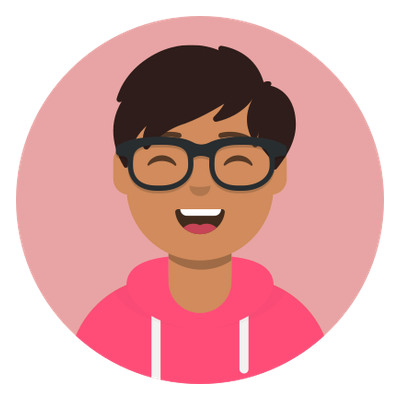
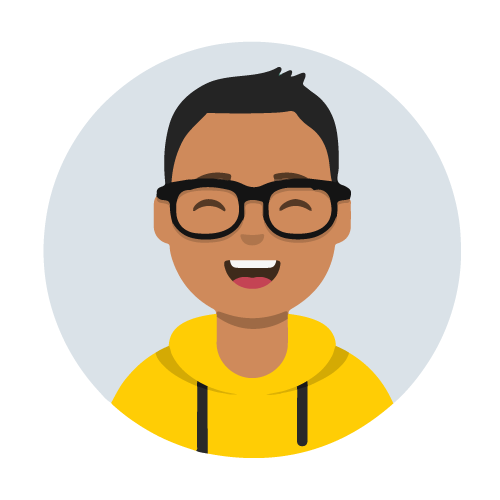
Design changes
Changed brand color from pink to yellow; Changed hero avatar; Added link to twitter and blog.

diff --git a/css/build.css b/css/build.css
@@ -1,1 +1,1 @@
-/*! tailwindcss v2.1.4 | MIT License | https://tailwindcss.com*//*! modern-normalize v1.1.0 | MIT License | https://github.com/sindresorhus/modern-normalize */html{-webkit-text-size-adjust:100%;line-height:1.15;-moz-tab-size:4;-o-tab-size:4;tab-size:4}body{font-family:system-ui,-apple-system,Segoe UI,Roboto,Helvetica,Arial,sans-serif,Apple Color Emoji,Segoe UI Emoji;margin:0}hr{color:inherit;height:0}abbr[title]{-webkit-text-decoration:underline dotted;text-decoration:underline dotted}b,strong{font-weight:bolder}code,kbd,pre,samp{font-family:ui-monospace,SFMono-Regular,Consolas,Liberation Mono,Menlo,monospace;font-size:1em}small{font-size:80%}sub,sup{font-size:75%;line-height:0;position:relative;vertical-align:baseline}sub{bottom:-.25em}sup{top:-.5em}table{border-color:inherit;text-indent:0}button,input,optgroup,select,textarea{font-family:inherit;font-size:100%;line-height:1.15;margin:0}button,select{text-transform:none}[type=button],[type=reset],[type=submit],button{-webkit-appearance:button}::-moz-focus-inner{border-style:none;padding:0}:-moz-focusring{outline:1px dotted ButtonText}:-moz-ui-invalid{box-shadow:none}legend{padding:0}progress{vertical-align:baseline}::-webkit-inner-spin-button,::-webkit-outer-spin-button{height:auto}[type=search]{-webkit-appearance:textfield;outline-offset:-2px}::-webkit-search-decoration{-webkit-appearance:none}::-webkit-file-upload-button{-webkit-appearance:button;font:inherit}summary{display:list-item}blockquote,dd,dl,figure,h1,h2,h3,h4,h5,h6,hr,p,pre{margin:0}button{background-color:transparent;background-image:none}button:focus{outline:1px dotted;outline:5px auto -webkit-focus-ring-color}fieldset,ol,ul{margin:0;padding:0}ol,ul{list-style:none}html{font-family:Poppins,sans-serif;line-height:1.5}body{font-family:inherit;line-height:inherit}*,:after,:before{border:0 solid #e4e4e7;box-sizing:border-box}hr{border-top-width:1px}img{border-style:solid}textarea{resize:vertical}input::-moz-placeholder,textarea::-moz-placeholder{color:#a1a1aa;opacity:1}input:-ms-input-placeholder,textarea:-ms-input-placeholder{color:#a1a1aa;opacity:1}input::placeholder,textarea::placeholder{color:#a1a1aa;opacity:1}[role=button],button{cursor:pointer}table{border-collapse:collapse}h1,h2,h3,h4,h5,h6{font-size:inherit;font-weight:inherit}a{color:inherit;text-decoration:inherit}button,input,optgroup,select,textarea{color:inherit;line-height:inherit;padding:0}code,kbd,pre,samp{font-family:ui-monospace,SFMono-Regular,Menlo,Monaco,Consolas,Liberation Mono,Courier New,monospace}audio,canvas,embed,iframe,img,object,svg,video{display:block;vertical-align:middle}img,video{height:auto;max-width:100%}*{--tw-shadow:0 0 #0000;--tw-ring-inset:var(--tw-empty,/*!*/ /*!*/);--tw-ring-offset-width:0px;--tw-ring-offset-color:#fff;--tw-ring-color:rgba(59,130,246,0.5);--tw-ring-offset-shadow:0 0 #0000;--tw-ring-shadow:0 0 #0000}.container{width:100%}@media (min-width:640px){.container{max-width:640px}}@media (min-width:768px){.container{max-width:768px}}@media (min-width:1024px){.container{max-width:1024px}}@media (min-width:1280px){.container{max-width:1280px}}@media (min-width:1536px){.container{max-width:1536px}}nav .mask{height:1.5rem;line-height:1;margin:4px 0;overflow:hidden;padding:0}nav .link-wrapper{display:flex;flex-direction:column;transition:transform .2s ease}nav .link-wrapper:hover{transform:translateY(-1.5rem)}nav .title{display:block;transition:transform .2s ease}nav .title-1{transform-origin:right center}nav .title-2{--tw-text-opacity:1;color:rgba(255,51,153,var(--tw-text-opacity));transform-origin:left center}nav .link-wrapper:hover .title-1,nav .title-2{transform:rotate(20deg)}nav .link-wrapper:hover .title-2{transform:rotate(0deg)}@media (max-width:767px){nav .mask{height:1.125rem}nav .link-wrapper:hover{transform:translateY(-1.125rem)}}#hero{height:100%}@media (min-width:768px){#hero{height:calc(100vh - 112px)}}.relative{position:relative}.absolute{position:absolute}.top-2{top:.5rem}.bottom-0{bottom:0}.-right-4{right:-1rem}.bottom-6{bottom:1.5rem}.left-0{left:0}.m-0{margin:0}.mx-auto{margin-left:auto;margin-right:auto}.my-56{margin-bottom:14rem;margin-top:14rem}.mt-10{margin-top:2.5rem}.mt-8{margin-top:2rem}.mb-12{margin-bottom:3rem}.mt-40{margin-top:10rem}.-mb-2{margin-bottom:-.5rem}.mt-2{margin-top:.5rem}.-mt-20{margin-top:-5rem}.mt-20{margin-top:5rem}.flex{display:flex}.h-12{height:3rem}.h-48{height:12rem}.h-72{height:18rem}.h-full{height:100%}.h-screen{height:100vh}.w-72{width:18rem}.w-full{width:100%}.w-screen{width:100vw}.max-w-6xl{max-width:72rem}.max-w-2xl{max-width:42rem}.max-w-sm{max-width:24rem}.transform{--tw-translate-x:0;--tw-translate-y:0;--tw-rotate:0;--tw-skew-x:0;--tw-skew-y:0;--tw-scale-x:1;--tw-scale-y:1;transform:translateX(var(--tw-translate-x)) translateY(var(--tw-translate-y)) rotate(var(--tw-rotate)) skewX(var(--tw-skew-x)) skewY(var(--tw-skew-y)) scaleX(var(--tw-scale-x)) scaleY(var(--tw-scale-y))}.cursor-not-allowed{cursor:not-allowed}.flex-row{flex-direction:row}.flex-col-reverse{flex-direction:column-reverse}.flex-col{flex-direction:column}.flex-wrap{flex-wrap:wrap}.items-center{align-items:center}.justify-between{justify-content:space-between}.justify-center{justify-content:center}.space-x-4>:not([hidden])~:not([hidden]){--tw-space-x-reverse:0;margin-left:calc(1rem*(1 - var(--tw-space-x-reverse)));margin-right:calc(1rem*var(--tw-space-x-reverse))}.space-y-8>:not([hidden])~:not([hidden]){--tw-space-y-reverse:0;margin-bottom:calc(2rem*var(--tw-space-y-reverse));margin-top:calc(2rem*(1 - var(--tw-space-y-reverse)))}.space-x-2>:not([hidden])~:not([hidden]){--tw-space-x-reverse:0;margin-left:calc(.5rem*(1 - var(--tw-space-x-reverse)));margin-right:calc(.5rem*var(--tw-space-x-reverse))}.overflow-scroll{overflow:scroll}.overflow-x-hidden{overflow-x:hidden}.overflow-y-scroll{overflow-y:scroll}.bg-gray-900{--tw-bg-opacity:1;background-color:rgba(24,24,27,var(--tw-bg-opacity))}.object-cover{-o-object-fit:cover;object-fit:cover}.object-left{-o-object-position:left;object-position:left}.p-8{padding:2rem}.p-4{padding:1rem}.text-center{text-align:center}.text-lg{font-size:1.125rem;line-height:1.75rem}.text-3xl{font-size:1.875rem;line-height:2.25rem}.text-base{font-size:1rem;line-height:1.5rem}.text-2xl{font-size:1.5rem;line-height:2rem}.text-xl{font-size:1.25rem;line-height:1.75rem}.font-bold{font-weight:700}.uppercase{text-transform:uppercase}.leading-relaxed{line-height:1.625}.tracking-sowide{letter-spacing:.3rem}.text-white{--tw-text-opacity:1;color:rgba(255,255,255,var(--tw-text-opacity))}.hover\:text-highlight:hover,.text-highlight{--tw-text-opacity:1;color:rgba(255,51,153,var(--tw-text-opacity))}@media (min-width:640px){.sm\:h-96{height:24rem}.sm\:w-96{width:24rem}.sm\:space-y-12>:not([hidden])~:not([hidden]){--tw-space-y-reverse:0;margin-bottom:calc(3rem*var(--tw-space-y-reverse));margin-top:calc(3rem*(1 - var(--tw-space-y-reverse)))}.sm\:space-x-4>:not([hidden])~:not([hidden]){--tw-space-x-reverse:0;margin-left:calc(1rem*(1 - var(--tw-space-x-reverse)));margin-right:calc(1rem*var(--tw-space-x-reverse))}.sm\:p-8{padding:2rem}.sm\:p-10{padding:2.5rem}.sm\:text-5xl{font-size:3rem;line-height:1}.sm\:text-4xl{font-size:2.25rem;line-height:2.5rem}}@media (min-width:768px){.md\:absolute{position:absolute}.md\:mt-0{margin-top:0}.md\:mb-0{margin-bottom:0}.md\:h-72{height:18rem}.md\:-translate-x-1\/2{--tw-translate-x:-50%}.md\:translate-x-full{--tw-translate-x:100%}.md\:flex-row{flex-direction:row}.md\:justify-between{justify-content:space-between}.md\:text-2xl{font-size:1.5rem;line-height:2rem}.md\:text-5xl{font-size:3rem;line-height:1}}@media (min-width:1024px){.lg\:h-full{height:100%}.lg\:space-y-24>:not([hidden])~:not([hidden]){--tw-space-y-reverse:0;margin-bottom:calc(6rem*var(--tw-space-y-reverse));margin-top:calc(6rem*(1 - var(--tw-space-y-reverse)))}.lg\:text-7xl{font-size:4.5rem;line-height:1}.lg\:text-2xl{font-size:1.5rem;line-height:2rem}.lg\:text-5xl{font-size:3rem;line-height:1}}
+/*! tailwindcss v2.1.4 | MIT License | https://tailwindcss.com*//*! modern-normalize v1.1.0 | MIT License | https://github.com/sindresorhus/modern-normalize */html{-webkit-text-size-adjust:100%;line-height:1.15;-moz-tab-size:4;-o-tab-size:4;tab-size:4}body{font-family:system-ui,-apple-system,Segoe UI,Roboto,Helvetica,Arial,sans-serif,Apple Color Emoji,Segoe UI Emoji;margin:0}hr{color:inherit;height:0}abbr[title]{-webkit-text-decoration:underline dotted;text-decoration:underline dotted}b,strong{font-weight:bolder}code,kbd,pre,samp{font-family:ui-monospace,SFMono-Regular,Consolas,Liberation Mono,Menlo,monospace;font-size:1em}small{font-size:80%}sub,sup{font-size:75%;line-height:0;position:relative;vertical-align:baseline}sub{bottom:-.25em}sup{top:-.5em}table{border-color:inherit;text-indent:0}button,input,optgroup,select,textarea{font-family:inherit;font-size:100%;line-height:1.15;margin:0}button,select{text-transform:none}[type=button],[type=reset],[type=submit],button{-webkit-appearance:button}::-moz-focus-inner{border-style:none;padding:0}:-moz-focusring{outline:1px dotted ButtonText}:-moz-ui-invalid{box-shadow:none}legend{padding:0}progress{vertical-align:baseline}::-webkit-inner-spin-button,::-webkit-outer-spin-button{height:auto}[type=search]{-webkit-appearance:textfield;outline-offset:-2px}::-webkit-search-decoration{-webkit-appearance:none}::-webkit-file-upload-button{-webkit-appearance:button;font:inherit}summary{display:list-item}blockquote,dd,dl,figure,h1,h2,h3,h4,h5,h6,hr,p,pre{margin:0}button{background-color:transparent;background-image:none}button:focus{outline:1px dotted;outline:5px auto -webkit-focus-ring-color}fieldset,ol,ul{margin:0;padding:0}ol,ul{list-style:none}html{font-family:Poppins,sans-serif;line-height:1.5}body{font-family:inherit;line-height:inherit}*,:after,:before{border:0 solid #e4e4e7;box-sizing:border-box}hr{border-top-width:1px}img{border-style:solid}textarea{resize:vertical}input::-moz-placeholder,textarea::-moz-placeholder{color:#a1a1aa;opacity:1}input:-ms-input-placeholder,textarea:-ms-input-placeholder{color:#a1a1aa;opacity:1}input::placeholder,textarea::placeholder{color:#a1a1aa;opacity:1}[role=button],button{cursor:pointer}table{border-collapse:collapse}h1,h2,h3,h4,h5,h6{font-size:inherit;font-weight:inherit}a{color:inherit;text-decoration:inherit}button,input,optgroup,select,textarea{color:inherit;line-height:inherit;padding:0}code,kbd,pre,samp{font-family:ui-monospace,SFMono-Regular,Menlo,Monaco,Consolas,Liberation Mono,Courier New,monospace}audio,canvas,embed,iframe,img,object,svg,video{display:block;vertical-align:middle}img,video{height:auto;max-width:100%}*{--tw-shadow:0 0 #0000;--tw-ring-inset:var(--tw-empty,/*!*/ /*!*/);--tw-ring-offset-width:0px;--tw-ring-offset-color:#fff;--tw-ring-color:rgba(59,130,246,0.5);--tw-ring-offset-shadow:0 0 #0000;--tw-ring-shadow:0 0 #0000}.container{width:100%}@media (min-width:640px){.container{max-width:640px}}@media (min-width:768px){.container{max-width:768px}}@media (min-width:1024px){.container{max-width:1024px}}@media (min-width:1280px){.container{max-width:1280px}}@media (min-width:1536px){.container{max-width:1536px}}nav .mask{height:1.5rem;line-height:1;margin:4px 0;overflow:hidden;padding:0}nav .link-wrapper{display:flex;flex-direction:column;transition:transform .2s ease}nav .link-wrapper:hover{transform:translateY(-1.5rem)}nav .title{display:block;transition:transform .2s ease}nav .title-1{transform-origin:right center}nav .title-2{--tw-text-opacity:1;color:rgba(255,205,5,var(--tw-text-opacity));transform-origin:left center}nav .link-wrapper:hover .title-1,nav .title-2{transform:rotate(20deg)}nav .link-wrapper:hover .title-2{transform:rotate(0deg)}@media (max-width:767px){nav .mask{height:1.125rem}nav .link-wrapper:hover{transform:translateY(-1.125rem)}}#hero{height:100%}@media (min-width:768px){#hero{height:calc(100vh - 112px)}}.relative{position:relative}.absolute{position:absolute}.top-2{top:.5rem}.bottom-0{bottom:0}.-right-4{right:-1rem}.bottom-6{bottom:1.5rem}.left-0{left:0}.top-20{top:5rem}.top-24{top:6rem}.top-0{top:0}.right-4{right:1rem}.mx-auto{margin-left:auto;margin-right:auto}.my-56{margin-bottom:14rem;margin-top:14rem}.mt-10{margin-top:2.5rem}.mt-8{margin-top:2rem}.mb-12{margin-bottom:3rem}.mt-40{margin-top:10rem}.-mb-2{margin-bottom:-.5rem}.mt-2{margin-top:.5rem}.-mt-20{margin-top:-5rem}.mt-20{margin-top:5rem}.flex{display:flex}.hidden{display:none}.h-12{height:3rem}.h-48{height:12rem}.h-72{height:18rem}.h-full{height:100%}.w-72{width:18rem}.w-full{width:100%}.w-screen{width:100vw}.max-w-6xl{max-width:72rem}.max-w-2xl{max-width:42rem}.transform{--tw-translate-x:0;--tw-translate-y:0;--tw-rotate:0;--tw-skew-x:0;--tw-skew-y:0;--tw-scale-x:1;--tw-scale-y:1;transform:translateX(var(--tw-translate-x)) translateY(var(--tw-translate-y)) rotate(var(--tw-rotate)) skewX(var(--tw-skew-x)) skewY(var(--tw-skew-y)) scaleX(var(--tw-scale-x)) scaleY(var(--tw-scale-y))}.cursor-not-allowed{cursor:not-allowed}.flex-row{flex-direction:row}.flex-col-reverse{flex-direction:column-reverse}.flex-wrap{flex-wrap:wrap}.items-center{align-items:center}.justify-between{justify-content:space-between}.justify-center{justify-content:center}.space-x-4>:not([hidden])~:not([hidden]){--tw-space-x-reverse:0;margin-left:calc(1rem*(1 - var(--tw-space-x-reverse)));margin-right:calc(1rem*var(--tw-space-x-reverse))}.space-y-8>:not([hidden])~:not([hidden]){--tw-space-y-reverse:0;margin-bottom:calc(2rem*var(--tw-space-y-reverse));margin-top:calc(2rem*(1 - var(--tw-space-y-reverse)))}.space-x-2>:not([hidden])~:not([hidden]){--tw-space-x-reverse:0;margin-left:calc(.5rem*(1 - var(--tw-space-x-reverse)));margin-right:calc(.5rem*var(--tw-space-x-reverse))}.overflow-scroll{overflow:scroll}.overflow-x-hidden{overflow-x:hidden}.overflow-y-scroll{overflow-y:scroll}.rounded{border-radius:.25rem}.rounded-lg{border-radius:.5rem}.rounded-md{border-radius:.375rem}.border{border-width:1px}.border-2{border-width:2px}.border-highlight{--tw-border-opacity:1;border-color:rgba(255,205,5,var(--tw-border-opacity))}.bg-gray-900{--tw-bg-opacity:1;background-color:rgba(24,24,27,var(--tw-bg-opacity))}.bg-highlight{--tw-bg-opacity:1;background-color:rgba(255,205,5,var(--tw-bg-opacity))}.object-cover{-o-object-fit:cover;object-fit:cover}.object-left{-o-object-position:left;object-position:left}.p-8{padding:2rem}.p-4{padding:1rem}.px-4{padding-left:1rem;padding-right:1rem}.py-2{padding-bottom:.5rem;padding-top:.5rem}.pt-4{padding-top:1rem}.pb-1{padding-bottom:.25rem}.text-center{text-align:center}.text-lg{font-size:1.125rem;line-height:1.75rem}.text-3xl{font-size:1.875rem;line-height:2.25rem}.text-base{font-size:1rem;line-height:1.5rem}.text-2xl{font-size:1.5rem;line-height:2rem}.text-xl{font-size:1.25rem;line-height:1.75rem}.font-bold{font-weight:700}.uppercase{text-transform:uppercase}.leading-relaxed{line-height:1.625}.tracking-sowide{letter-spacing:.3rem}.text-white{--tw-text-opacity:1;color:rgba(255,255,255,var(--tw-text-opacity))}.text-highlight{--tw-text-opacity:1;color:rgba(255,205,5,var(--tw-text-opacity))}.text-gray-900{--tw-text-opacity:1;color:rgba(24,24,27,var(--tw-text-opacity))}.transition{transition-duration:.15s;transition-property:background-color,border-color,color,fill,stroke,opacity,box-shadow,transform,filter,-webkit-backdrop-filter;transition-property:background-color,border-color,color,fill,stroke,opacity,box-shadow,transform,filter,backdrop-filter;transition-property:background-color,border-color,color,fill,stroke,opacity,box-shadow,transform,filter,backdrop-filter,-webkit-backdrop-filter;transition-timing-function:cubic-bezier(.4,0,.2,1)}.duration-200{transition-duration:.2s}.duration-300{transition-duration:.3s}.hover\:bg-gray-900:hover{--tw-bg-opacity:1;background-color:rgba(24,24,27,var(--tw-bg-opacity))}.hover\:text-highlight:hover{--tw-text-opacity:1;color:rgba(255,205,5,var(--tw-text-opacity))}.hover\:bg-blend-lighten:hover{background-blend-mode:lighten}@media (min-width:640px){.sm\:static{position:static}.sm\:block{display:block}.sm\:h-96{height:24rem}.sm\:w-96{width:24rem}.sm\:space-y-12>:not([hidden])~:not([hidden]){--tw-space-y-reverse:0;margin-bottom:calc(3rem*var(--tw-space-y-reverse));margin-top:calc(3rem*(1 - var(--tw-space-y-reverse)))}.sm\:space-x-4>:not([hidden])~:not([hidden]){--tw-space-x-reverse:0;margin-left:calc(1rem*(1 - var(--tw-space-x-reverse)));margin-right:calc(1rem*var(--tw-space-x-reverse))}.sm\:p-8{padding:2rem}.sm\:p-10{padding:2.5rem}.sm\:py-2{padding-bottom:.5rem;padding-top:.5rem}.sm\:text-5xl{font-size:3rem;line-height:1}.sm\:text-4xl{font-size:2.25rem;line-height:2.5rem}}@media (min-width:768px){.md\:absolute{position:absolute}.md\:mt-0{margin-top:0}.md\:mb-0{margin-bottom:0}.md\:h-72{height:18rem}.md\:-translate-x-1\/2{--tw-translate-x:-50%}.md\:translate-x-full{--tw-translate-x:100%}.md\:flex-row{flex-direction:row}.md\:justify-between{justify-content:space-between}.md\:text-2xl{font-size:1.5rem;line-height:2rem}.md\:text-5xl{font-size:3rem;line-height:1}}@media (min-width:1024px){.lg\:h-full{height:100%}.lg\:space-y-24>:not([hidden])~:not([hidden]){--tw-space-y-reverse:0;margin-bottom:calc(6rem*var(--tw-space-y-reverse));margin-top:calc(6rem*(1 - var(--tw-space-y-reverse)))}.lg\:text-7xl{font-size:4.5rem;line-height:1}.lg\:text-2xl{font-size:1.5rem;line-height:2rem}.lg\:text-5xl{font-size:3rem;line-height:1}}

diff --git a/pages/about.html b/pages/about.html
@@ -10,7 +10,7 @@
         <link rel="shortcut icon" href="../favicon.png" type="image/png" />
         <title>Shounak Das | About</title>
     </head>
-    <body class="bg-gray-900 text-white font-bold p-4 sm:p-8">
+    <body class="bg-gray-900 text-white font-bold p-8">
         <div id="container">
             <header class="flex flex-row justify-between items-center">
                 <div id="logo">
@@ -39,76 +39,35 @@
                                 </div>
                             </a>
                         </li>
+                        <li class="absolute top-0 right-4 sm:static">
+                            <a href="https://codecrunch.hashnode.dev/" target="_blank" rel="noopener noreferrer" class="px-4 pt-4 pb-1 sm:py-2 border-2 border-highlight bg-highlight text-gray-900 rounded-lg hover:bg-gray-900 hover:text-highlight transition duration-300">Blog</a>
+                        </li>
                     </ul>
                 </nav>
             </header>
             <main class="max-w-2xl mx-auto mt-40">
                 <div id="img-young" class="w-72 sm:w-96 h-72 sm:h-96 relative">
-                    <h1 class="text-3xl sm:text-5xl lg:text-7xl md:absolute top-2 transform md:-translate-x-1/2">
-                        About
-                    </h1>
-                    <img
-                        src="../img/young-me.jpg"
-                        alt="Photo of a young Shounak"
-                        class="object-cover object-left h-full w-full"
-                        loading="lazy"
-                    />
-                    <h2
-                        class="
-                            text-2xl
-                            sm:text-4xl
-                            lg:text-5xl
-                            -mb-2
-                            mt-2
-                            md:mt-0
-                            md:absolute
-                            bottom-0
-                            -right-4
-                            transform
-                            md:translate-x-full
-                        "
-                    >
-                        This is <span class="text-highlight">me</span>.
-                    </h2>
+                    <h1 class="text-3xl sm:text-5xl lg:text-7xl md:absolute top-2 transform md:-translate-x-1/2">About</h1>
+                    <img src="../img/young-me.jpg" alt="Photo of a young Shounak" class="object-cover object-left h-full w-full" loading="lazy" />
+                    <h2 class="text-2xl sm:text-4xl lg:text-5xl -mb-2 mt-2 md:mt-0 md:absolute bottom-0 -right-4 transform md:translate-x-full">This is <span class="text-highlight">me</span>.</h2>
                 </div>
-                <div
-                    id="main-text"
-                    class="text-2xl sm:text-4xl lg:text-5xl space-y-8 sm:space-y-12 lg:space-y-24 my-56"
-                >
-                    <p class="leading-relaxed">
-                        Ok, this <span class="text-highlight uppercase">was</span> me many years before.
-                    </p>
+                <div id="main-text" class="text-2xl sm:text-4xl lg:text-5xl space-y-8 sm:space-y-12 lg:space-y-24 my-56">
+                    <p class="leading-relaxed">Ok, this <span class="text-highlight uppercase">was</span> me many years before.</p>
                     <p class="leading-relaxed">Now I look something more like this:</p>
                     <div id="img-old" class="p-4 sm:p-10">
-                        <img
-                            src="../img/old-me.jpg"
-                            alt="A recent photo of Shounak"
-                            class="object-cover"
-                            loading="lazy"
-                        />
+                        <img src="../img/old-me.jpg" alt="A recent photo of Shounak" class="object-cover" loading="lazy" />
                     </div>
-                    <p class="leading-relaxed">
-                        I grew up in a small town near Kolkata, <span class="text-highlight">India</span>.
-                    </p>
+                    <p class="leading-relaxed">I grew up in a small town near Kolkata, <span class="text-highlight">India</span>.</p>
                     <p class="leading-relaxed">
                         It was back in 6th grade when I was acquainted with something called
-                        <span class="text-highlight">HTML</span>. The 11-year-old me had never felt this powerful before
-                        when he was able to display any text he wrote on the notepad screen, on the Internet Explorer.
+                        <span class="text-highlight">HTML</span>. The 11-year-old me had never felt this powerful before when he was able to display any text he wrote on the notepad screen, on the Internet Explorer.
                     </p>
                     <p class="leading-relaxed">
                         That was the beginning of my incredible journey to the mesmerizing valley of
-                        <span class="text-highlight">web development</span>. Over the past few years, I have been
-                        working on my <span class="text-highlight">skills</span> - learning and improving, one day at a
-                        time.
+                        <span class="text-highlight">web development</span>. Over the past few years, I have been working on my <span class="text-highlight">skills</span> - learning and improving, one day at a time.
                     </p>
-                    <p class="leading-relaxed">
-                        I fancy following a <span class="text-highlight">minimalist</span> approach in my web designs
-                        and try to keep things beautiful in their <span class="text-highlight">simplicity</span>.
-                    </p>
-                    <p class="leading-relaxed">
-                        If you wish to <span class="text-highlight">work</span> with me or simply chat, feel free to
-                        contact me here:
-                    </p>
+                    <p class="leading-relaxed">I fancy following a <span class="text-highlight">minimalist</span> approach in my web designs and try to keep things beautiful in their <span class="text-highlight">simplicity</span>.</p>
+                    <p class="leading-relaxed">If you wish to <span class="text-highlight">work</span> with me or simply chat, feel free to contact me here:</p>
                     <p class="leading-relaxed text-xl sm:text-4xl lg:text-5xl">
                         <a href="mailto:shounakdas19@gmail.com" class="hover:text-highlight">shounakdas19@gmail.com</a>
                     </p>
@@ -153,6 +112,16 @@
                                     <div class="link-wrapper">
                                         <span class="title title-1">Dribbble</span>
                                         <span class="title title-2">Dribbble</span>
+                                    </div>
+                                </div>
+                            </a>
+                        </li>
+                        <li>
+                            <a href="https://twitter.com/theShounakDas" target="_blank" rel="noopener noreferrer nofollow">
+                                <div class="mask">
+                                    <div class="link-wrapper">
+                                        <span class="title title-1">Twitter</span>
+                                        <span class="title title-2">Twitter</span>
                                     </div>
                                 </div>
                             </a>

diff --git a/pages/contact.html b/pages/contact.html
@@ -10,7 +10,7 @@
         <link rel="shortcut icon" href="../favicon.png" type="image/png" />
         <title>Shounak Das | Contact</title>
     </head>
-    <body class="bg-gray-900 text-white font-bold p-4 sm:p-8 overflow-x-hidden overflow-y-scroll">
+    <body class="bg-gray-900 text-white font-bold p-8 overflow-x-hidden overflow-y-scroll">
         <div id="container">
             <header class="flex flex-row justify-between items-center">
                 <div id="logo">
@@ -39,14 +39,14 @@
                             </a>
                         </li>
                         <li class="text-highlight mask cursor-not-allowed">Contact</li>
+                        <li class="absolute top-0 right-4 sm:static">
+                            <a href="https://codecrunch.hashnode.dev/" target="_blank" rel="noopener noreferrer" class="px-4 pt-4 pb-1 sm:py-2 border-2 border-highlight bg-highlight text-gray-900 rounded-lg hover:bg-gray-900 hover:text-highlight transition duration-300">Blog</a>
+                        </li>
                     </ul>
                 </nav>
             </header>
             <main class="max-w-2xl mx-auto mt-20">
-                <div
-                    id="main-text"
-                    class="text-2xl text-center sm:text-4xl lg:text-5xl space-y-8 sm:space-y-12 lg:space-y-24"
-                >
+                <div id="main-text" class="text-2xl text-center sm:text-4xl lg:text-5xl space-y-8 sm:space-y-12 lg:space-y-24">
                     <p class="leading-relaxed">Thanks for taking the time to reach out. Feel free contact me here:</p>
                     <p class="leading-relaxed text-xl sm:text-4xl lg:text-5xl">
                         <a href="mailto:shounakdas19@gmail.com" class="hover:text-highlight">shounakdas19@gmail.com</a>
@@ -92,6 +92,16 @@
                                     <div class="link-wrapper">
                                         <span class="title title-1">Dribbble</span>
                                         <span class="title title-2">Dribbble</span>
+                                    </div>
+                                </div>
+                            </a>
+                        </li>
+                        <li>
+                            <a href="https://twitter.com/theShounakDas" target="_blank" rel="noopener noreferrer nofollow">
+                                <div class="mask">
+                                    <div class="link-wrapper">
+                                        <span class="title title-1">Twitter</span>
+                                        <span class="title title-2">Twitter</span>
                                     </div>
                                 </div>
                             </a>

diff --git a/index.html b/index.html
@@ -48,30 +48,16 @@
                                 </div>
                             </a>
                         </li>
+                        <li class="absolute top-0 right-4 sm:static">
+                            <a href="https://codecrunch.hashnode.dev/" target="_blank" rel="noopener noreferrer" class="px-4 pt-4 pb-1 sm:py-2 border-2 border-highlight bg-highlight text-gray-900 rounded-lg hover:bg-gray-900 hover:text-highlight transition duration-300">Blog</a>
+                        </li>
                     </ul>
                 </nav>
             </header>
-            <main
-                id="hero"
-                class="
-                    flex flex-col-reverse
-                    md:flex-row
-                    items-center
-                    justify-center
-                    md:justify-between
-                    max-w-6xl
-                    mx-auto
-                    mt-10
-                    md:mt-0
-                "
-            >
+            <main id="hero" class="flex flex-col-reverse md:flex-row items-center justify-center md:justify-between max-w-6xl mx-auto mt-10 md:mt-0">
                 <div id="hero-text">
-                    <h1 class="text-3xl md:text-5xl lg:text-7xl">
-                        Hi,<br />I'm <span class="text-highlight">Shounak</span>.<br />Nice to meet you.
-                    </h1>
-                    <h2 class="text-base lg:text-2xl tracking-sowide mt-8">
-                        Front-end Developer <span class="text-highlight">/</span> Freelancer
-                    </h2>
+                    <h1 class="text-3xl md:text-5xl lg:text-7xl">Hi,<br />I'm <span class="text-highlight">Shounak</span>.<br />Nice to meet you.</h1>
+                    <h2 class="text-base lg:text-2xl tracking-sowide mt-8">Front-end Developer <span class="text-highlight">/</span> Freelancer</h2>
                 </div>
                 <div id="hero-img" class="mb-12 md:mb-0">
                     <img src="img/hero.png" alt="Shounak is happy to have you here." class="h-48 md:h-72 lg:h-full" />

diff --git a/tailwind.config.js b/tailwind.config.js
@@ -1,34 +1,31 @@
-const colors = require('tailwindcss/colors');
+const colors = require("tailwindcss/colors");
 
 module.exports = {
-  mode: 'jit',
-  purge: {
-    enabled: true,
-    content: [
-      './*.html',
-      'pages/*.html',
-    ]
-  },
-  darkMode: false, // or 'media' or 'class'
-  theme: {
-    fontFamily: {
-      sans: ['Poppins', 'sans-serif']
+    mode: "jit",
+    purge: {
+        enabled: true,
+        content: ["./*.html", "pages/*.html"],
     },
-    colors: {
-      transparent: 'transparent',
-      white: colors.white,
-      black: colors.black,
-      gray: colors.gray,
-      highlight: '#FF3399',
+    darkMode: false, // or 'media' or 'class'
+    theme: {
+        fontFamily: {
+            sans: ["Poppins", "sans-serif"],
+        },
+        colors: {
+            transparent: "transparent",
+            white: colors.white,
+            black: colors.black,
+            gray: colors.gray,
+            highlight: "#FFCD05",
+        },
+        extend: {
+            letterSpacing: {
+                sowide: "0.3rem",
+            },
+        },
     },
-    extend: {
-      letterSpacing: {
-        sowide: '0.3rem',
-      }
+    variants: {
+        extend: {},
     },
-  },
-  variants: {
-    extend: {},
-  },
-  plugins: [],
-}
+    plugins: [],
+};
